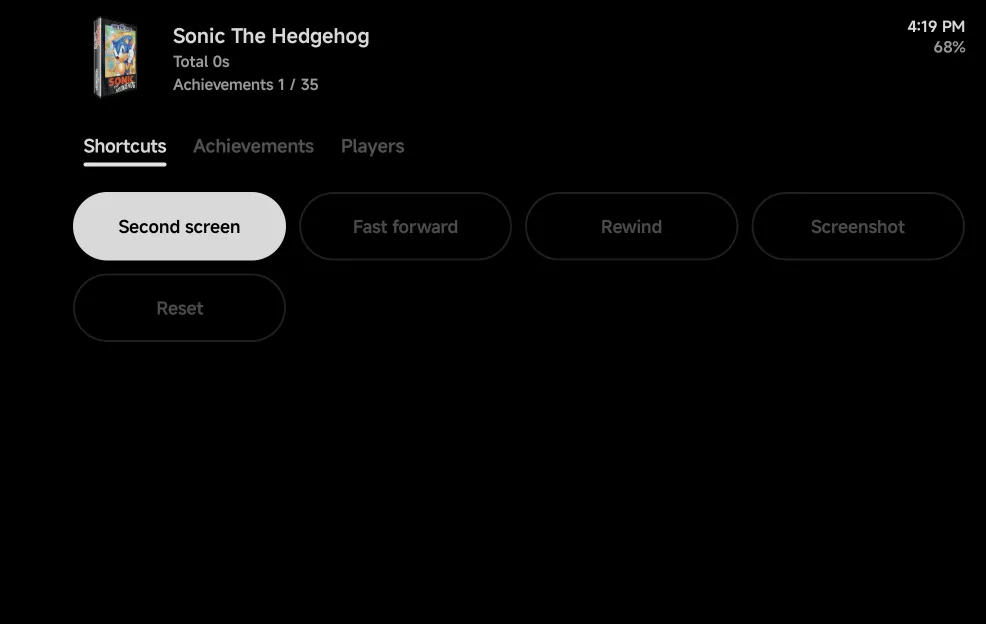
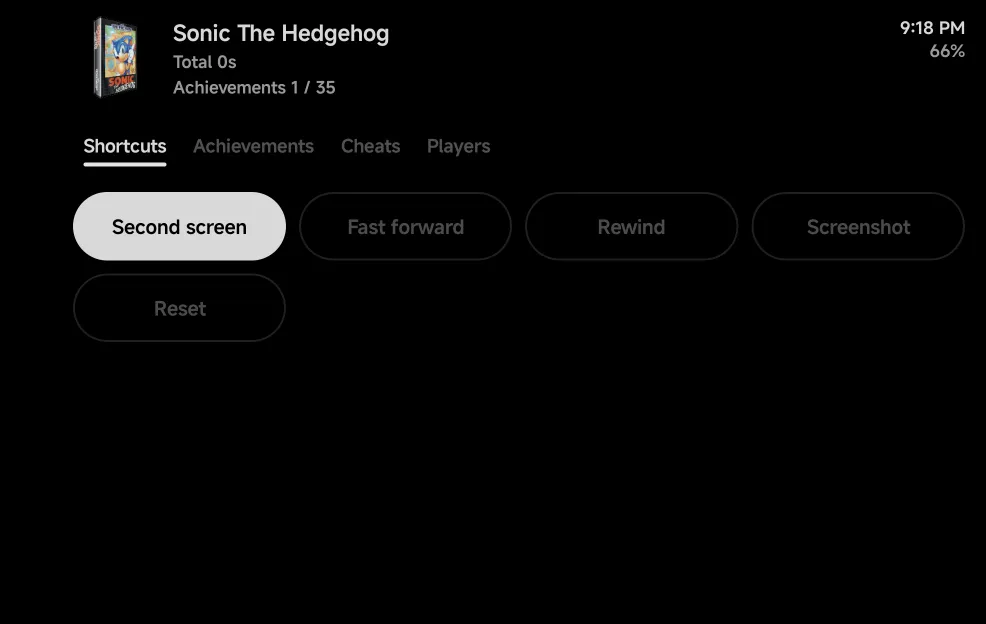
Retake the game panel screenshot (Cheats tab)

diff --git a/docs/mobile/dual-screen.md b/docs/mobile/dual-screen.md
@@ -182,7 +182,7 @@ list to the left of the panel. Closing it takes the list away again.
 The same panel shows on the touch screen and, on a phone with one screen,
 on the right of the [in-game menu](in-game-menu.md#the-game-panel).
 
-![The game panel: box art, Sonic The Hedgehog, Total, Achievements 1 / 35, the clock and battery; the Shortcuts, Achievements and Players tabs, with Shortcuts open](../assets/screenshots/mobile/game-panel.webp){ .nx-wide }
+![The game panel: box art, Sonic The Hedgehog, Total, Achievements 1 / 35, the clock and battery; the Shortcuts, Achievements, Cheats and Players tabs, with Shortcuts open (Second screen, Fast forward, Rewind, Screenshot, Reset)](../assets/screenshots/mobile/game-panel.webp){ .nx-wide }
 
 Across the top, the game's header shows:
 
